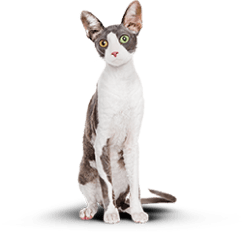
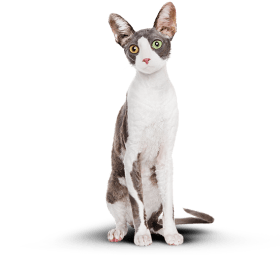
Корректирует стили страниц + слайдер

Changed region(s): [[0.2016, 0.0, 0.7778, 0.9655]]

diff --git a/source/index.html b/source/index.html
@@ -23,7 +23,7 @@
         <div class="navigation__wrapper">
           <ul class="navigation__list site-list">
             <li class="site-list__item">
-              <a class="site-list__link site-list__link--desktop">Главная</a>
+              <a class="site-list__link site-list__link--desktop site-list__link--active">Главная</a>
             </li>
             <li class="site-list__item">
               <a class="site-list__link site-list__link--desktop" href="catalog.html">Каталог продукции</a>
@@ -134,17 +134,20 @@
         </div>
 
         <div class="example__wrapper-image slide">
-          <div class="slide__images">
-            <img class="slide__image" src="img/cat-before.png" alt="Фото кота Бориса до функционального питания."
-              width="280" height="232">
-            <img class="slide__image slide__image--hidden" src="img/cat-after.png"
-              alt="Фото кота Бориса после функционального питания." width="243" height="232">
+          <div class="slide__images-before">
+            <img class="slide__image-before" src="img/cat-before.png" alt="Фото кота Бориса до функционального питания."
+              width="280" height="256">
+          </div>
+          <div class="slide__images-after">
+            <img class="slide__image-after" src="img/cat-after.png"
+              alt="Фото кота Бориса после функционального питания." width="280" height="256">
           </div>
           <div class="slide__scale">
             <button class="slide__toggle" type="button">
               <span class="visually-hidden">Посмотреть изменения кота</span>
             </button>
           </div>
+
         </div>
       </div>
     </section>
@@ -186,7 +189,7 @@
             </a>
           </li>
           <li class="social__item">
-            <a class="social__link social__link--youtube" href="https://t.me/htmlacademy">
+            <a class="social__link social__link--telegram" href="https://t.me/htmlacademy">
               <span class="visually-hidden">Телеграм</span>
             </a>
           </li>

diff --git a/source/sass/blocks/promo.scss b/source/sass/blocks/promo.scss
@@ -21,9 +21,9 @@
     padding-bottom: 0;
   }
 
-
   @media (min-width: $desktop-width) {
     position: static;
+    padding-bottom: 267px;
 
     &::before {
       position: absolute;
@@ -40,20 +40,22 @@
       display: block;
       z-index: -1;
     }
-
-    height: 694px; //нужно будет убрать
   }
 }
 
 
 .promo__background-wrapper {
   position: relative;
-  padding-top: 27px;
+  padding-top: 40px;
 
   @media (min-width: $tablet-width) {
     display: flex;
     flex-direction: column;
     align-items: flex-start;
+  }
+
+  @media (min-width: $desktop-width) {
+    padding-top: 58px;
   }
 }
 
@@ -119,6 +121,11 @@
     font-size: 20px;
     line-height: 20px;
   }
+
+  @media (min-width: $desktop-width) {
+    position: relative;
+    bottom: 0;
+  }
 }
 
 .promo__image {
@@ -127,5 +134,10 @@
   @media (min-width: $tablet-width) {
     margin-bottom: 0;
     align-self: center;
+  }
+
+  @media (min-width: $desktop-width) {
+    position: absolute;
+    top: 141px;
   }
 }

diff --git a/source/sass/blocks/site-list.scss b/source/sass/blocks/site-list.scss
@@ -7,14 +7,20 @@
   text-transform: uppercase;
   font-weight: 500;
   font-size: 20px;
-  line-height: 20px;
+  line-height: 1;
+  cursor: pointer;
 
   @media (min-width: $tablet-width) {
     min-width: 442px;
+    font-weight: 400;
+    font-size: 18px;
+    line-height: 24px;
   }
 
   @media (min-width: $desktop-width) {
     min-width: 480px;
+    font-size: 20px;
+    line-height: 30px;
   }
 }
 
@@ -22,9 +28,23 @@
   text-decoration: none;
   color: var(--main-color-dark);
 
+  @media (min-width: $tablet-width) {
+    padding: 8px 0;
+  }
+
   &--desktop {
     @media (min-width: $desktop-width) {
       color: var(--main-color);
     }
+  }
+
+  &--active {
+    @media (min-width: $tablet-width) {
+      border-bottom: 2px solid var(--basic-color);
+    }
+
+    // @media (min-width: $desktop-width) {
+    //   border-bottom: 2px solid var(--main-color);
+    // }
   }
 }

diff --git a/source/catalog.html b/source/catalog.html
@@ -26,7 +26,7 @@
               <a class="site-list__link" href="index.html">Главная</a>
             </li>
             <li class="site-list__item">
-              <a class="site-list__link">Каталог продукции</a>
+              <a class="site-list__link site-list__link--active">Каталог продукции</a>
             </li>
             <li class="site-list__item">
               <a class="site-list__link" href="form.html">Подбор программы</a>
@@ -383,7 +383,7 @@
             </a>
           </li>
           <li class="social__item">
-            <a class="social__link social__link--youtube" href="https://t.me/htmlacademy">
+            <a class="social__link social__link--telegram" href="https://t.me/htmlacademy">
               <span class="visually-hidden">Телеграм</span>
             </a>
           </li>

diff --git a/source/form.html b/source/form.html
@@ -29,7 +29,7 @@
               <a class="site-list__link" href="catalog.html">Каталог продукции</a>
             </li>
             <li class="site-list__item">
-              <a class="site-list__link">Подбор программы</a>
+              <a class="site-list__link site-list__link--active">Подбор программы</a>
             </li>
           </ul>
         </div>
@@ -183,7 +183,7 @@
             </a>
           </li>
           <li class="social__item">
-            <a class="social__link social__link--youtube" href="https://t.me/htmlacademy">
+            <a class="social__link social__link--telegram" href="https://t.me/htmlacademy">
               <span class="visually-hidden">Телеграм</span>
             </a>
           </li>

diff --git a/source/sass/blocks/slide.scss b/source/sass/blocks/slide.scss
@@ -1,5 +1,45 @@
 .slide__scale {
+  position: absolute;
+  top: 0;
+  left: 50%;
   height: 256px;
   width: 4px;
   background-color: var(--special-deep-color-normal);
+}
+
+.slide__toggle {
+  position: absolute;
+  top: 50%;
+  right: -18px;
+  transform: translateY(-20px);
+  width: 40px;
+  height: 40px;
+  border: 2px solid var(--special-deep-color-normal);
+  border-radius: 50%;
+  padding: 0;
+  box-sizing: border-box;
+  cursor: pointer;
+}
+
+.slide {
+  display: flex;
+  position: relative;
+  justify-content: center;
+}
+
+.slide__images-before {
+  display: flex;
+  width: 140px;
+  overflow: hidden;
+}
+
+.slide__images-after {
+  display: flex;
+  width: 140px;
+  overflow: hidden;
+  justify-content: flex-end;
+}
+
+.slide__image-after {
+  display: block;
 }

diff --git a/source/sass/blocks/social.scss b/source/sass/blocks/social.scss
@@ -10,4 +10,37 @@
 
 .social__link {
   text-decoration: none;
+  display: flex;
+  box-sizing: border-box;
+  width: 28px;
+  height: 22px;
+  justify-content: center;
+  align-items: center;
+
+  &--vkontakte::before {
+    display: block;
+    content: "";
+    width: 27px;
+    height: 17px;
+    background-image: url("../img/vk-icon.svg");
+    background-repeat: no-repeat;
+  }
+
+  &--youtube::before {
+    display: block;
+    content: "";
+    width: 24px;
+    height: 19px;
+    background-image: url("../img/youtube-icon.svg");
+    background-repeat: no-repeat;
+  }
+
+  &--telegram::before {
+    display: block;
+    content: "";
+    width: 20px;
+    height: 17px;
+    background-image: url("../img/telegram-icon.svg");
+    background-repeat: no-repeat;
+  }
 }

diff --git a/source/sass/blocks/footer.scss b/source/sass/blocks/footer.scss
@@ -10,10 +10,39 @@
   @media (min-width: $tablet-width) {
     flex-direction: row;
     justify-content: space-between;
+    padding: 58px 0 55px 0;
   }
 
   @media (min-width: $desktop-width) {
     flex-direction: row;
     justify-content: space-between;
+  }
+}
+
+.footer__logo {
+  padding-top: 39px;
+  padding-bottom: 32px;
+
+  @media (min-width: $tablet-width) {
+    padding: 0;
+  }
+}
+
+.footer__social {
+  padding: 20px 74px;
+  border-top: 1px solid var(--special-deep-color-grey);
+  border-bottom: 1px solid var(--special-deep-color-grey);
+
+  @media (min-width: $tablet-width) {
+    padding: 0;
+    border: none;
+  }
+}
+
+.footer__copyright {
+  padding: 22px 0;
+
+  @media (min-width: $tablet-width) {
+    padding: 0;
   }
 }

diff --git a/source/sass/blocks/header.scss b/source/sass/blocks/header.scss
@@ -5,4 +5,25 @@
 .header__wrapper {
   display: flex;
   justify-content: space-between;
+  align-items: center;
+
+  @media (min-width: $tablet-width) {
+    padding: 24px 0;
+  }
+
+  @media (min-width: $desktop-width) {
+    padding: 53px 0;
+  }
+}
+
+.header__logo {
+  height: 38px;
+
+  @media (min-width: $tablet-width) {
+    height: 52px;
+  }
+
+  @media (min-width: $desktop-width) {
+    height: 59px;
+  }
 }

diff --git a/source/sass/blocks/advantages.scss b/source/sass/blocks/advantages.scss
@@ -4,6 +4,10 @@
   @media (min-width: $tablet-width) {
     padding: 45px 0 47px 0;
   }
+
+  @media (min-width: $desktop-width) {
+    padding: 71px 0 69px 0;
+  }
 }
 
 .advantages__title {

diff --git a/source/sass/blocks/catalog-page.scss b/source/sass/blocks/catalog-page.scss
@@ -6,7 +6,7 @@
   padding: 27px 0 41px;
 
   @media (min-width: $tablet-width) {
-    padding: 39px 0 163px;
+    padding: 40px 0 163px;
   }
 
   @media (min-width: $desktop-width) {

diff --git a/source/sass/blocks/form-page.scss b/source/sass/blocks/form-page.scss
@@ -15,7 +15,7 @@
   padding: 27px 0 39px;
 
   @media (min-width: $tablet-width) {
-    padding: 39px 0 66px;
+    padding: 40px 0 66px;
   }
 
   @media (min-width: $desktop-width) {
